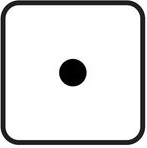
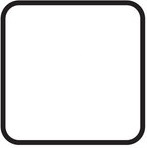
7.1

Changed region(s): [[0.381, 0.3784, 0.5986, 0.5946]]

diff --git a/Unit 07_JavaScript Control Structures/01_Random and Comparison/script.js b/Unit 07_JavaScript Control Structures/01_Random and Comparison/script.js
@@ -1,0 +1,28 @@
+function Roll(){
+    var diceElement = document.getElementById("dice");
+    diceElement.src = "images/dice0.jpg";
+    let random = Math.random() * 6 + 1;
+    random = Math.trunc(random);
+    console.log(random);
+
+    if(random === 1){
+        diceElement.src = "images/dice1.jpg"
+    }
+     else if(random === 2){
+        diceElement.src = "images/dice2.jpg"
+    }
+     else if(random === 3){
+        diceElement.src = "images/dice3.jpg"
+    }
+     else if(random === 4){
+        diceElement.src = "images/dice4.jpg"
+    }
+     else if(random === 5){
+        diceElement.src = "images/dice5.jpg"
+    }
+    else if(random === 6){
+        diceElement.src = "images/dice6.jpg"
+    }
+
+
+}
